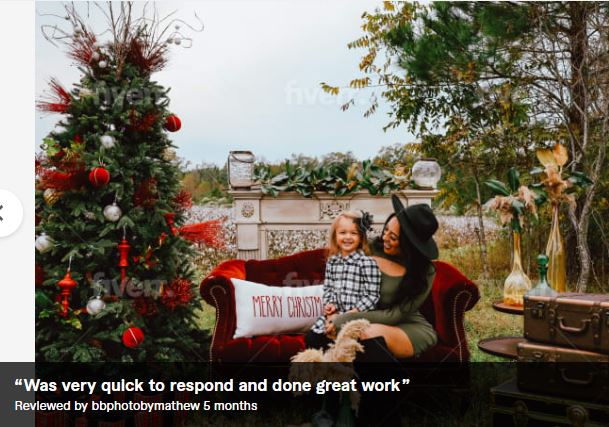
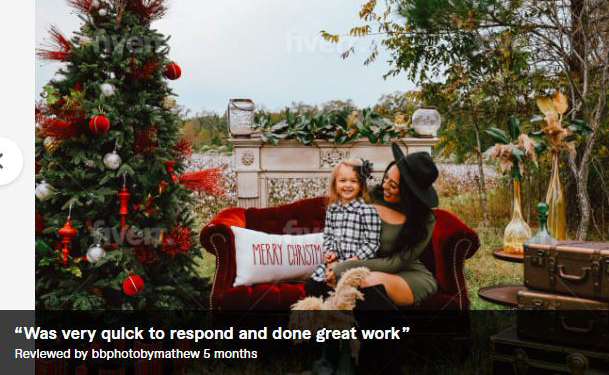
new

diff --git a/index.html b/index.html
@@ -666,7 +666,7 @@
                 <!-- blog-card -->
                 <div class="blog-card">
                     <div class="img-holder">
-                        <img src="assets/imgs/blog.jpg" alt="Download free bootstrap 4 landing page, free boootstrap 4 templates, Download free bootstrap 4.1 landing page, free boootstrap 4.1.1 templates, meyawo Landing page">
+                        <img src="assets/imgs/test2.JPG" alt="Download free bootstrap 4 landing page, free boootstrap 4 templates, Download free bootstrap 4.1 landing page, free boootstrap 4.1.1 templates, meyawo Landing page">
                     </div>
                     <div class="content-holder">
                         <h6 class="title"><b>Jane Pijo</b></h6>
